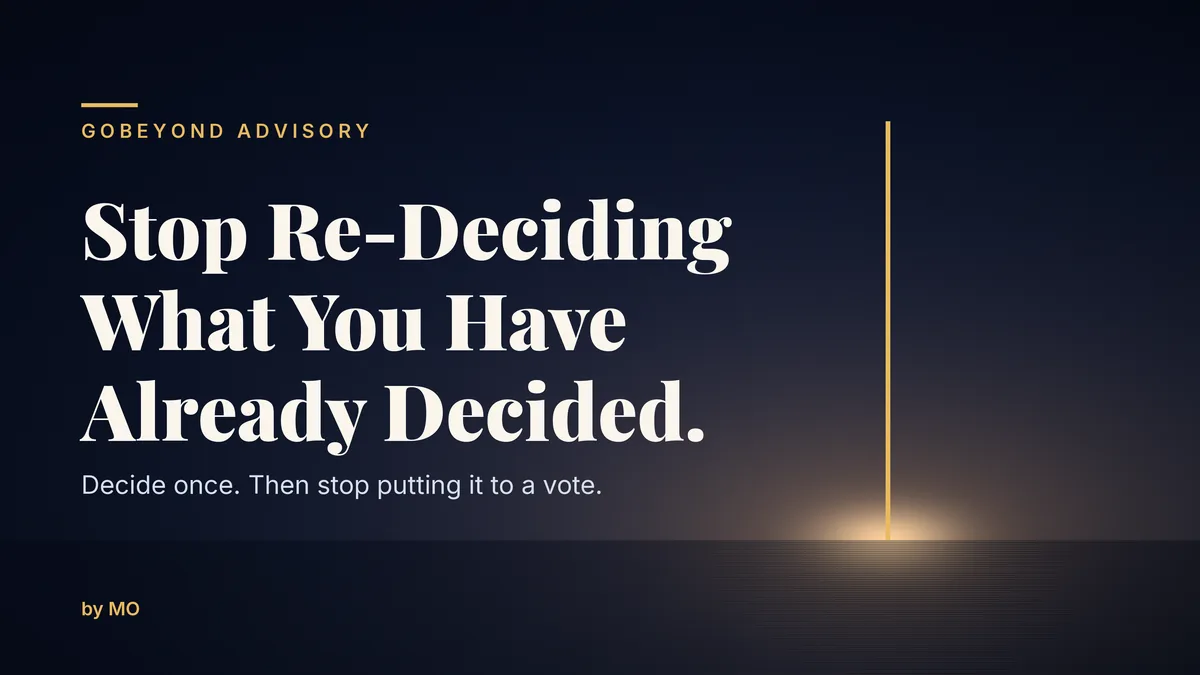
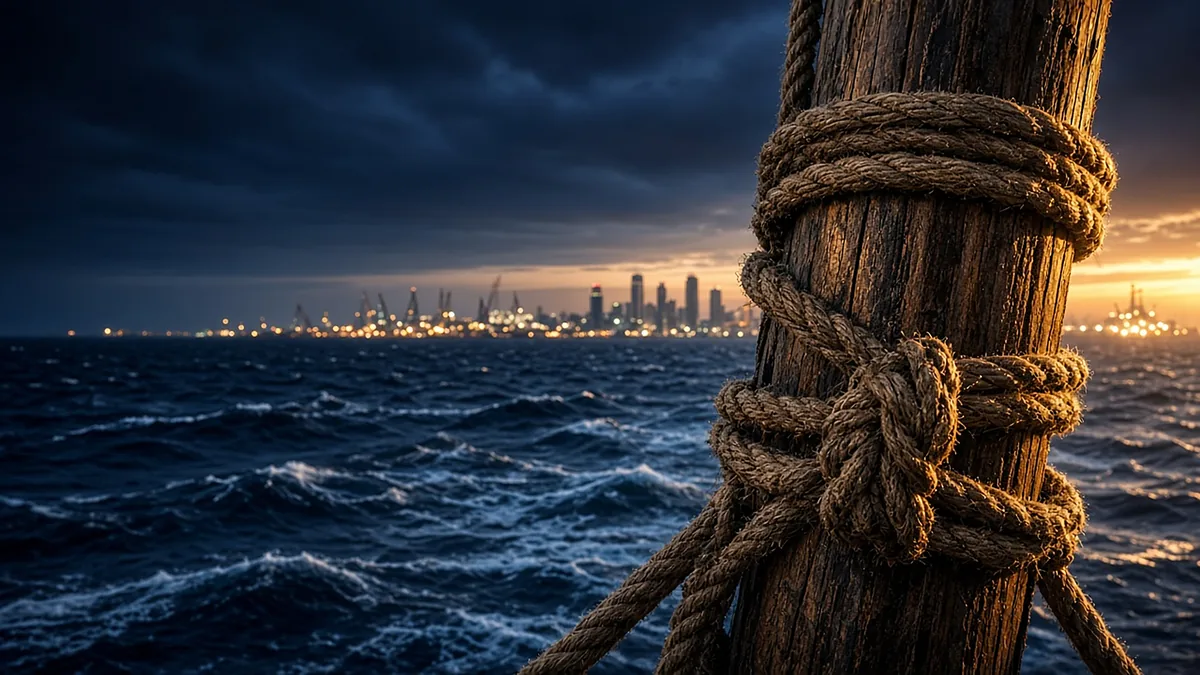
DRAFT brief 9: textless v2 cover as hero background
Regenerated 1920/1200 WebP and 1200x630 OG JPG from cover-4k-v2.png (same filenames). Preview only.

diff --git a/gba-article9-decide-once.html b/gba-article9-decide-once.html
@@ -72,13 +72,14 @@ footer{background:var(--dk);padding:40px 56px;display:flex;justify-content:space
 }
 @media(max-width:380px){.ht{font-size:1.65rem;}p{font-size:1rem;}}
 
-.hero{min-height:auto;padding-bottom:0;background:var(--dk);}
-.hi{padding-top:96px;}
-.cv{background:var(--dk);padding:0 40px 64px;}.cv figure{max-width:1200px;margin:0 auto;}.cv img{display:block;width:100%;height:auto;border:1px solid var(--gline);}
+.hero{min-height:88vh;background:var(--dk);}
+.hp{position:absolute;inset:0;width:100%;height:100%;object-fit:cover;object-position:68% center;}
+.ho{background:linear-gradient(90deg,rgba(12,10,7,0.78) 0%,rgba(12,10,7,0.55) 55%,rgba(12,10,7,0.25) 100%);}
+.ht,.hs{text-shadow:0 2px 18px rgba(0,0,0,0.55);}
 .bd ul,.bd ol{margin:0 0 24px 1.4em;}.bd li{font-size:1.12rem;line-height:1.82;margin-bottom:10px;color:var(--ink);}
 .bd hr{border:0;border-top:1px solid var(--gline);margin:52px 0 28px;}
 .af p{font-size:1rem;color:var(--inkm);}
-@media(max-width:768px){.hi{padding-top:56px;}.cv{padding:0 0 40px;}.bd li{font-size:1.05rem;}}
+@media(max-width:768px){.hero{min-height:620px;}.hp{object-position:72% center;}.ho{background:rgba(12,10,7,0.62);}.bd li{font-size:1.05rem;}}
 </style>
 
 <link rel="canonical" href="https://www.gobeyondadvisory.com/gba-article9-decide-once"/>
@@ -90,7 +91,7 @@ footer{background:var(--dk);padding:40px 56px;display:flex;justify-content:space
 <meta property="og:image" content="https://www.gobeyondadvisory.com/assets/articles/gba-article9-decide-once-og.jpg"/>
 <meta property="og:image:width" content="1200"/>
 <meta property="og:image:height" content="630"/>
-<meta property="og:image:alt" content="Bold upright title &#x27;Stop Re-Deciding What You Have Already Decided&#x27; over a dark navy background with a single gold vertical line and a warm horizon glow."/>
+<meta property="og:image:alt" content="A weathered wooden mast bound tight with heavy rope in the foreground, a storm-dark sea and a lit city skyline on the horizon at dusk."/>
 <meta property="article:published_time" content="2026-10-19"/>
 <meta property="article:author" content="MO"/>
 <meta name="twitter:card" content="summary_large_image"/>
@@ -124,6 +125,9 @@ footer{background:var(--dk);padding:40px 56px;display:flex;justify-content:space
   <a href="mailto:partners@gobeyondadvisory.com" class="ncta">Engage Advisory</a>
 </nav>
 <header class="hero">
+  <img class="hp" src="/assets/articles/gba-article9-decide-once-1200.webp" srcset="/assets/articles/gba-article9-decide-once-1200.webp 1200w, /assets/articles/gba-article9-decide-once-1920.webp 1920w" sizes="100vw" width="1920" height="1080" alt="A weathered wooden mast bound tight with heavy rope in the foreground, a storm-dark sea and a lit city skyline on the horizon at dusk." fetchpriority="high">
+  <div class="ho"></div>
+  <div class="hg"></div>
   <div class="hi">
     <div class="he">GoBeyond Advisory Intelligence Brief<span class="hbadge">Discipline &amp; Decision-Making</span></div>
     <h1 class="ht">Stop Re-Deciding What You Have <em>Already Decided</em></h1>
@@ -137,9 +141,6 @@ footer{background:var(--dk);padding:40px 56px;display:flex;justify-content:space
     </div>
   </div>
 </header>
-<div class="cv"><figure>
-  <img src="/assets/articles/gba-article9-decide-once-1200.webp" srcset="/assets/articles/gba-article9-decide-once-1200.webp 1200w, /assets/articles/gba-article9-decide-once-1920.webp 1920w" sizes="(max-width: 1280px) 100vw, 1200px" width="1920" height="1080" alt="Bold upright title &#x27;Stop Re-Deciding What You Have Already Decided&#x27; over a dark navy background with a single gold vertical line and a warm horizon glow." fetchpriority="high" decoding="async">
-</figure></div>
 <article class="bd">
 <p>Think of a decision you have made more than twice.</p>
 <p>One you have already made, sincerely, more than once. To protect the first hour of the morning. To stop answering work messages after dinner. To finish the project you keep returning to. Each time you meant it. Each time it held for a few days or a few weeks, and then it quietly ended with a reasonable exception, followed by a slightly less reasonable one.</p>
